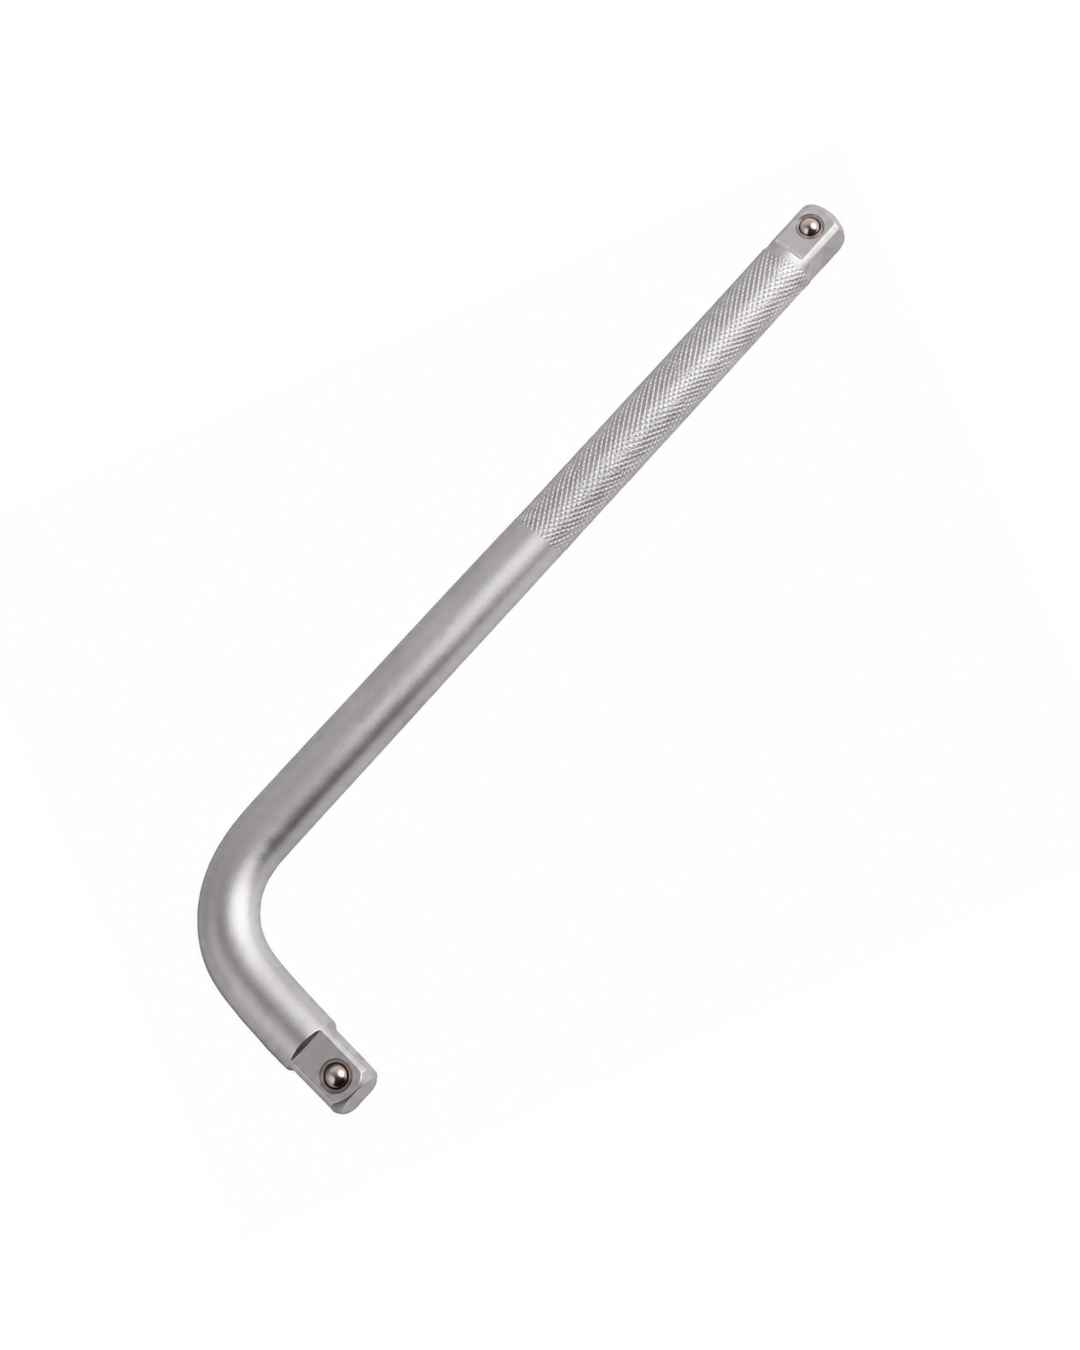
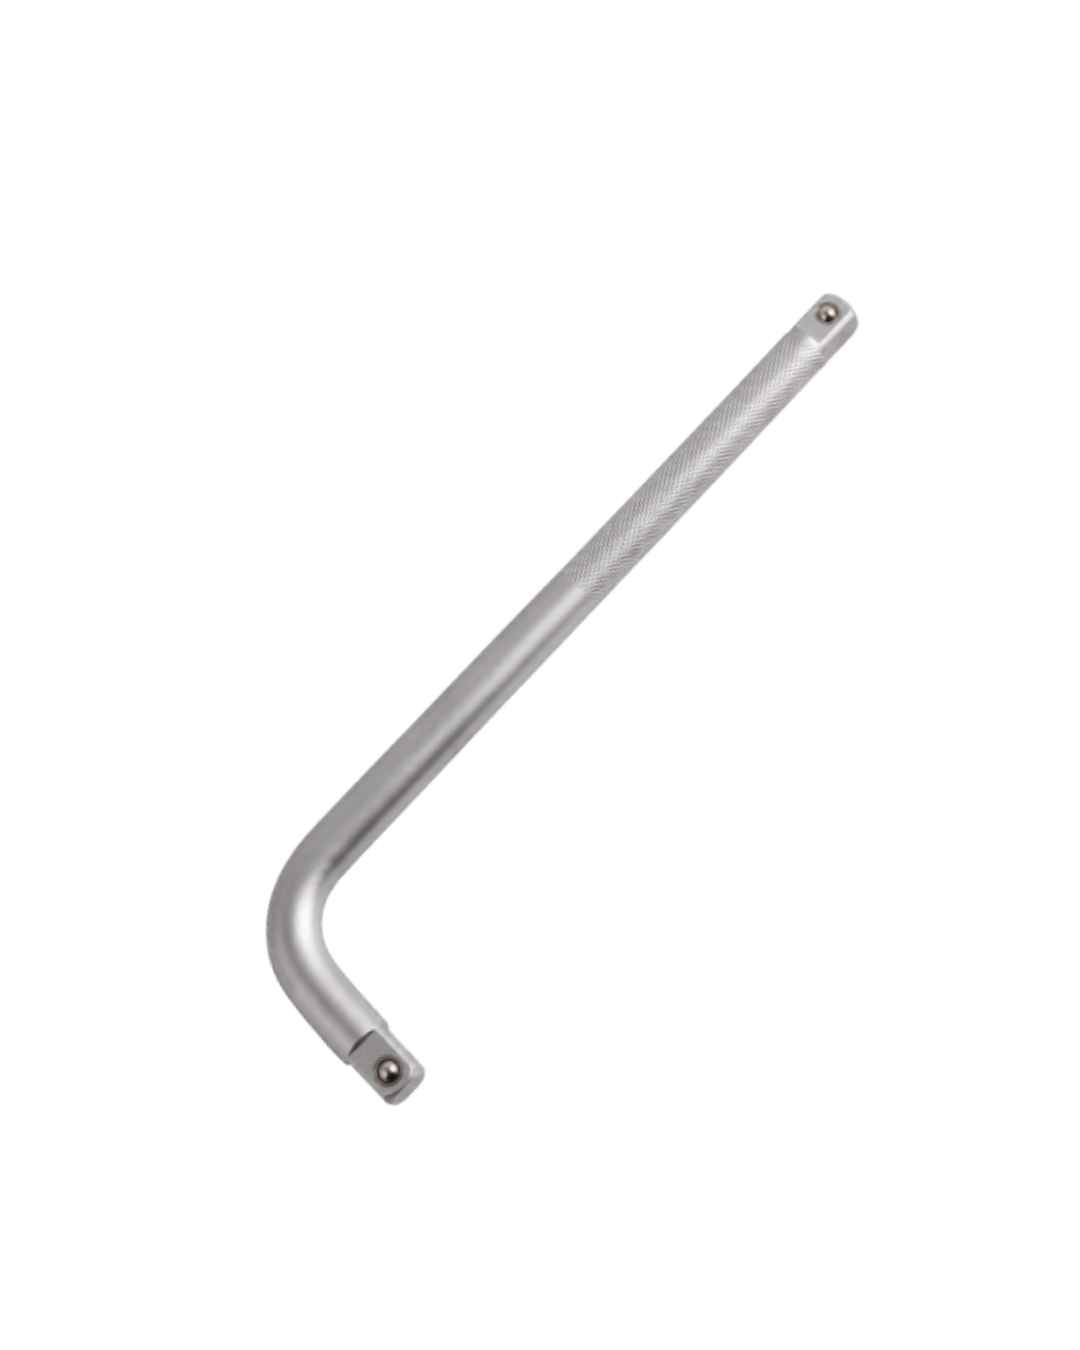
Add files via upload

Changed region(s): [[0.1833, 0.1556, 0.7944, 0.84]]

diff --git a/scripte.js b/scripte.js
@@ -1,5 +1,5 @@
 // ---------- CONFIGURACIÓN ----------
-const USD_TO_CUP = 780;
+const USD_TO_CUP = 800;
 let useCUP = false;
 
 const BANNER_SLIDES = [
@@ -170,7 +170,7 @@ const PRODUCTS = [
   { id: 314, name: 'Llave de Tubo 8"/200mm', desc: '', categories: ['refrigeracion'], images: ['img/productos/ll033.jpg'], priceBase: 8, price1: 6.92, price2: 6.38, price3: 5.58 },
   { id: 315, name: 'Llave de Tubo 10"/250mm', desc: '', categories: ['refrigeracion'], images: ['img/productos/ll035-036.jpg'], priceBase: 12, price1: 10.22, price2: 9.33, price3: 8 },
   { id: 86, name: 'Llave de Tubo 12"/250mm', desc: '', categories: ['solar'], images: ['img/productos/ll036.png'], priceBase: 16, price1: 13.60, price2: 12.40, price3: 10.61 },
-  { id: 136, name: 'Llave Elevadora de mango Tipo L 1/2" -250 mm (200901)', desc: '', categories: ['refrigeracion'], images: ['img/productos/ll011-ll018.png'], priceBase: 9, price1: 7.66, price2: 7, price3: 6 },
+  { id: 136, name: 'Llave Elevadora de mango Tipo L 1/2" -250 mm (200901)', desc: '', categories: ['herramientas'], images: ['img/productos/ll040.jpg'], priceBase: 9, price1: 7.66, price2: 7, price3: 6 },
   { id: 137, name: 'Llave Fija Doble Boca 6x7 mm', desc: '', categories: ['refrigeracion'], images: ['img/productos/ll042.jpg'], priceBase: 2.50, price1: 2.24, price2: 2.11, price3: 1.88 },          
   { id: 138, name: 'Llave Fija Doble Boca 16x17 mm', desc: '', categories: ['refrigeracion'], images: ['img/productos/ll042.jpg'], priceBase: 4, price1: 3.54, price2: 3.31, price3: 2.96 },
   { id: 139, name: 'Llave Fija Doble Boca 25x28mm', desc: '', categories: ['refrigeracion'], images: ['img/productos/ll042.jpg'], priceBase: 4, price1: 3.54, price2: 3.31, price3: 2.96 },
@@ -591,15 +591,13 @@ const PRODUCTS = [
   { id: 671, name: 'Juego de extensiones para taladro incluye adaptadores 6 pcs', desc: '', categories: ['herramientas'], images: ['img/productos/ju051.jpg'], priceBase: 20.00, price1: 18.02, price2: 17.03, price3: 15.54 },
   { id: 672, name: 'Juego de mini Alicate de Bloqueo 5" de 3 piezas', desc: '', categories: ['herramientas'], images: ['img/productos/ju069.jpg'], priceBase: 12.00, price1: 10.50, price2: 9.75, price3: 8.63 },
   { id: 673, name: 'Kit de conectores variados (800 pcs) con pinza de crimpado (30-5 AWG)', desc: '', categories: ['herramientas'], images: ['img/productos/ki010.jpg'], priceBase: 55.00, price1: 48.40, price2: 45.10, price3: 40.15 },
-  { id: 674, name: 'Llave ajustable 10"/250 mm', desc: '', categories: ['herramientas'], images: ['img/productos/ll003.jpg'], priceBase: 12.00, price1: 10.77, price2: 10.15, price3: 9.22 },
-  { id: 675, name: 'Llave ajustable 12"/300 mm', desc: '', categories: ['herramientas'], images: ['img/productos/ll004.jpg'], priceBase: 18.00, price1: 16.04, price2: 15.06, price3: 13.59 },
-  { id: 676, name: 'Llave Ajustable Mango Dos Colores 6"/150 mm', desc: '', categories: ['herramientas'], images: ['img/productos/ll005.jpg'], priceBase: 9.00, price1: 8.03, price2: 7.55, price3: 6.82 },
-  
-
-
-
-
-
+  { id: 674, name: 'Llave ajustable 12"/300 mm', desc: '', categories: ['herramientas'], images: ['img/productos/ll004.jpg'], priceBase: 18.00, price1: 16.04, price2: 15.06, price3: 13.59 },
+  { id: 675, name: 'Llave Combinada de Rachet 13 mm', desc: '', categories: ['herramientas'], images: ['img/productos/ll023.jpg'], priceBase: 5.50, price1: 4.84, price2: 4.51, price3: 4.02 },
+  { id: 676, name: 'Llave Combinada de Rachet 15 mm', desc: '', categories: ['herramientas'], images: ['img/productos/ll024.jpg'], priceBase: 8.00, price1: 6.85, price2: 6.27, price3: 5.41 },
+  { id: 677, name: 'Llave combinada ratchet flexible 14 mm', desc: '', categories: ['herramientas'], images: ['img/productos/ll030.jpg'], priceBase: 7.50, price1: 6.61, price2: 6.17, price3: 5.51 },
+  { id: 678, name: 'Llave Fija Doble Boca 14x15 mm', desc: '', categories: ['herramientas'], images: ['img/productos/ll041.jpg'], priceBase: 3.00, price1: 2.68, price2: 2.52, price3: 2.28 },
+  { id: 679, name: 'Llavero portabrocas multicolor (capacidad 12 piezas)', desc: '', categories: ['herramientas'], images: ['img/productos/ll053.jpg'], priceBase: 6.00, price1: 5.51, price2: 5.27, price3: 4.90 },
+  { id: 680, name: 'Llave Fija Doble Boca 30x32mm', desc: '', categories: ['herramientas'], images: ['img/productos/ll0422.jpg'], priceBase: 4.50, price1: 3.94, price2: 3.66, price3: 3.24 },
   
 
 
